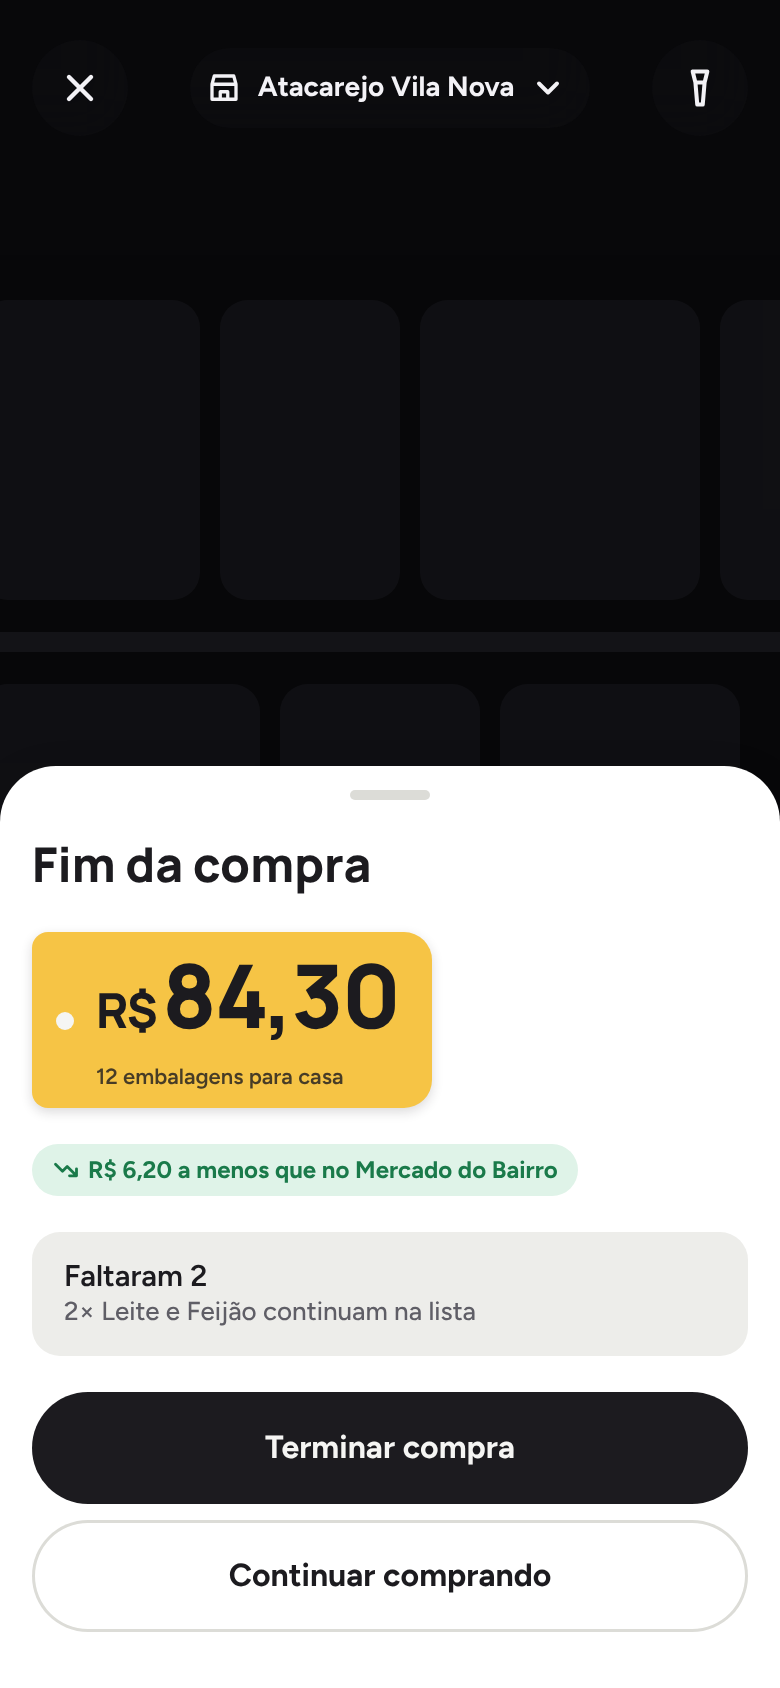
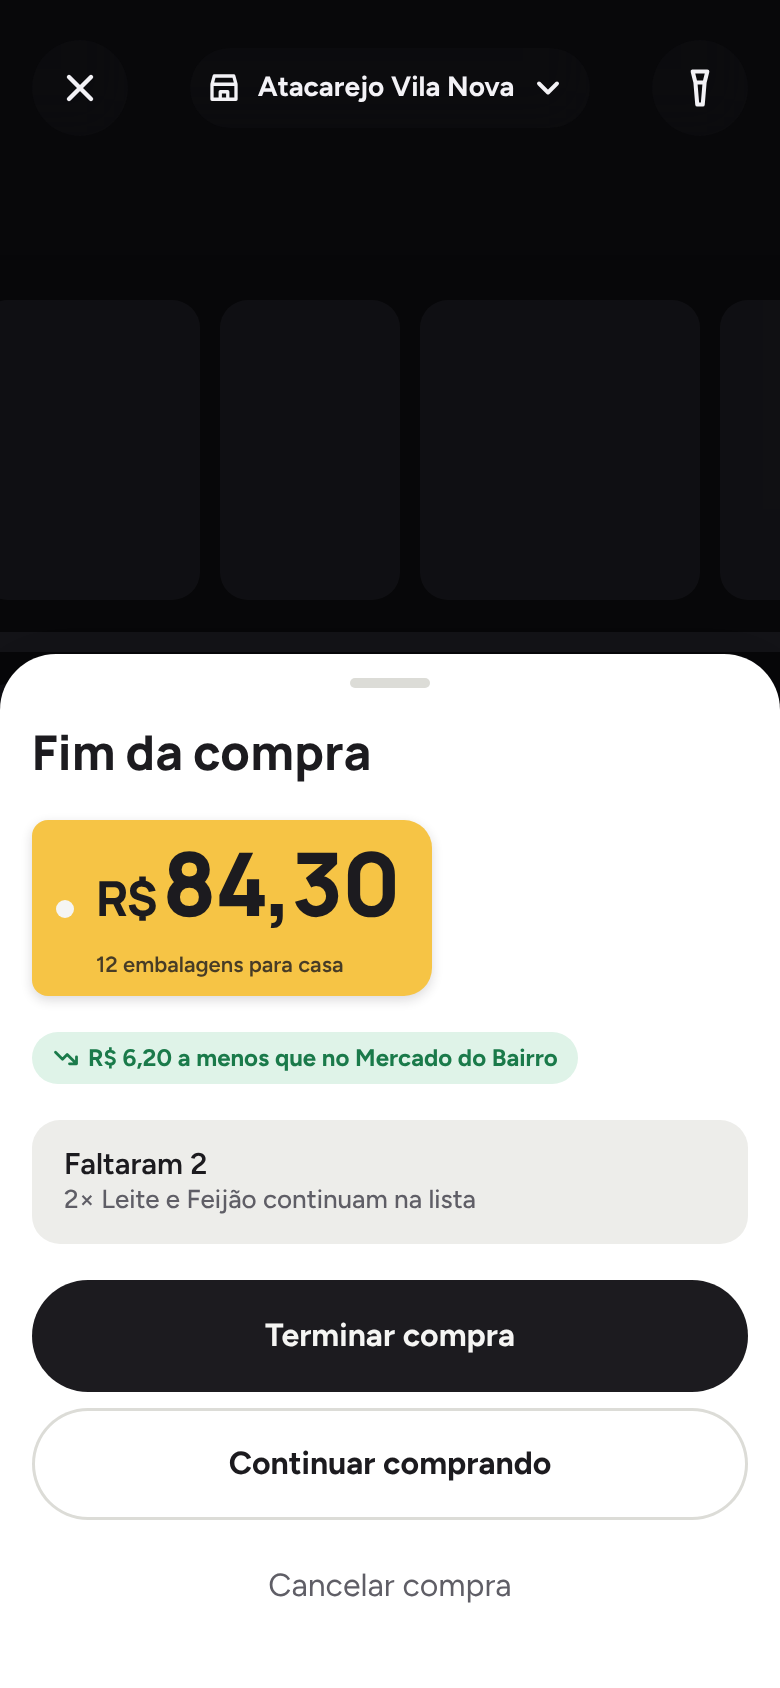
docs: registra o mercado da última compra e o cancelar compra no protótipo, no roadmap e no changelog
Claude-Session: https://claude.ai/code/session_01XoR8k38DG85jdEd8v6SSEa

Changed region(s): [[0.0, 0.3697, 1.0, 0.955], [0.0308, 0.9242, 0.0615, 0.955]]

diff --git a/docs/design/prototipo/fonte/FimDaCompra.dc.html b/docs/design/prototipo/fonte/FimDaCompra.dc.html
@@ -57,6 +57,7 @@ a{color:#1C1B22}a:hover{color:#B00E28}
 .sheet .bipa-btn{width:100%;height:56px;font-size:16px}
 .sheet-title{margin:0;font:800 24px/30px var(--font-display);color:var(--ink)}
 .actions{display:grid;gap:8px}
+.text-btn{display:grid;place-items:center;min-height:48px;border:0;background:none;font:600 15px/20px var(--font-body);color:var(--ink-muted)}
 
 </style>
 </helmet>
@@ -86,6 +87,7 @@ a{color:#1C1B22}a:hover{color:#B00E28}
     <div class="actions">
       <a class="bipa-btn bipa-btn--neutral" href="Lista.dc.html" style="text-decoration: none;"><span>Terminar compra</span></a>
       <a class="bipa-btn bipa-btn--secondary" href="ModoCarrinho.dc.html" style="text-decoration: none;"><span>Continuar comprando</span></a>
+      <button class="text-btn" type="button">Cancelar compra</button>
     </div>
   </section>
 </div>

diff --git a/docs/design/prototipo/README.md b/docs/design/prototipo/README.md
@@ -16,7 +16,7 @@ Cada tela tem uma imagem (390 px de largura, em 2x) e o HTML de origem em [`font
 | **Modo carrinho, preço lido ao vivo**: a etiqueta dentro da moldura é lida sem fotografar. A moldura trava, o chip mostra o preço e o item que o recebeu, e o preço do item na bandeja muda. O chip some sozinho. | [ModoCarrinhoLido.png](telas/ModoCarrinhoLido.png) | Feita (ADR 0012) |
 | **Modo carrinho, preço esperando o produto**: o preço lido antes de bipar espera o próximo produto por alguns segundos. O aviso é um botão: tocar escolhe o produto pelo nome lido na etiqueta. | [ModoCarrinhoEsperando.png](telas/ModoCarrinhoEsperando.png) | Feita (ADR 0012). O aviso tocável aguarda revisão |
 | **Modo carrinho, granel sem código**: a etiqueta de gôndola por quilo ("TOMATE ITALIANO R$ 8,99 o kg") não tem código para bipar, então o aviso vira botão: tocar escolhe o produto, já buscado pelo nome lido, e o preço por kg vai para o histórico. Quanto custa sai da etiqueta da balança ou do preço digitado (aguarda revisão). | [ModoCarrinhoGranel.png](telas/ModoCarrinhoGranel.png) | Feita (ADR 0018) |
-| **Fim da compra**: "Terminei" (no carrinho, na Lista ou na notificação) abre esta folha antes de terminar: o total em destaque, quantas embalagens vão para casa, a economia contra o mercado mais barato depois deste (quando há preço de tudo lá) e o que faltou da lista, com a quantidade quando faltou mais de uma ("2× Leite"). "Terminar compra" confirma; o Desfazer continua depois. | [FimDaCompra.png](telas/FimDaCompra.png) | Feita. A quantidade do que faltou aguarda revisão |
+| **Fim da compra**: "Terminei" (no carrinho, na Lista ou na notificação) abre esta folha antes de terminar: o total em destaque, quantas embalagens vão para casa, a economia contra o mercado mais barato depois deste (quando há preço de tudo lá) e o que faltou da lista, com a quantidade quando faltou mais de uma ("2× Leite"). "Terminar compra" confirma; o Desfazer continua depois. "Cancelar compra", só texto, desiste depois de confirmar. | [FimDaCompra.png](telas/FimDaCompra.png) | Feita. A quantidade do que faltou e o "Cancelar compra" aguardam revisão |
 | **Início durante a compra**: a barra da compra fica fixa acima da navegação, com o progresso da lista e o total bipado. | [CasaCompra.png](telas/CasaCompra.png) | Feita |
 | **Produto**: imagem, nome, código, preço, preço em cada mercado com a idade do preço, histórico de 6 meses, "Em casa" com o "ter sempre" e "Pôr na lista". | [Produto.png](telas/Produto.png) | Visual antigo |
 | **Embalagem nova**: ao bipar um código desconhecido, o app sugere o produto ("Arroz branco") e preenche marca e tamanho pela etiqueta; o botão de trocar escolhe outro produto. | [EmbalagemNova.png](telas/EmbalagemNova.png) | Feita (ADR 0013) |

diff --git a/docs/roadmap.md b/docs/roadmap.md
@@ -63,8 +63,6 @@ Primeira abertura e em casa:
 Lista e compra:
 
 - [ ] CE4: o marcado à mão entra no total pelo preço esperado, com "≈", ou como "sem preço"; a prévia da lista diz "sem preço de N"
-- [ ] CE5: sem localização, a compra começa no mercado que o chip da Lista mostra
-- [ ] CE7: "Cancelar compra" também no carrinho, e o menu da Lista no canto direito
 
 Câmera e modo carrinho:
 
@@ -89,7 +87,7 @@ Consistência e acessibilidade:
 - [ ] H5: as linhas de "Nos mercados" e da comparação abrem o mercado, e os alfinetes do mapa levam à linha
 - [ ] A barra de navegação encolhe ao rolar, como no design system
 - [ ] Movimento reduzido respeitado em todas as animações (barras da comparação e stepper)
-- [ ] Revisar no protótipo: "Modo carrinho: granel sem código", "Menu do bipar" com "Guardar em casa", "Mercados" com a idade dos preços e a pergunta "Levar os preços?", o mercado na "Confirmação", o aviso tocável em "Modo carrinho: preço esperando", o "1 de 2" no "Modo carrinho" e o "2× Leite" no "Fim da compra"
+- [ ] Revisar no protótipo: "Modo carrinho: granel sem código", "Menu do bipar" com "Guardar em casa", "Mercados" com a idade dos preços e a pergunta "Levar os preços?", o mercado na "Confirmação", o aviso tocável em "Modo carrinho: preço esperando", o "1 de 2" no "Modo carrinho", e o "2× Leite" e o "Cancelar compra" no "Fim da compra"
 
 ## Fase 2: base comunitária
 

diff --git a/CHANGELOG.md b/CHANGELOG.md
@@ -54,6 +54,8 @@ Todas as mudanças relevantes do projeto. O formato segue o [Keep a Changelog](h
 - A folha "Conferir e salvar" mostra o mercado do preço, e tocar nele troca.
 - Quantidade na compra: o item da lista só fica marcado quando o carrinho alcança a quantidade dela. Antes, a lista e a bandeja mostram "1 de 3", e o "Terminei" deixa na lista o que faltou, citado na folha "Fim da compra" ("2× Leite").
 - Tocar na quantidade do item da lista a muda, e o campo de adicionar entende "2 leite", "leite 2" e "2x leite".
+- Sem localização, a compra começa no mercado que o chip da Lista mostrava, o da última compra.
+- "Cancelar compra" também na folha "Fim da compra", que o "Terminei" do carrinho abre; na Lista, o menu passa para a direita.
 
 ### Corrigido
 - Leitura da etiqueta: centavos sobrescritos lidos à parte, milhar ("1.299,90"), preço seguido de KG ou UN, parcelas confundidas com o preço, dígitos espaçados pelo OCR e rótulos como "LEVE 3 PAGUE 2" tomados pelo nome do produto.
